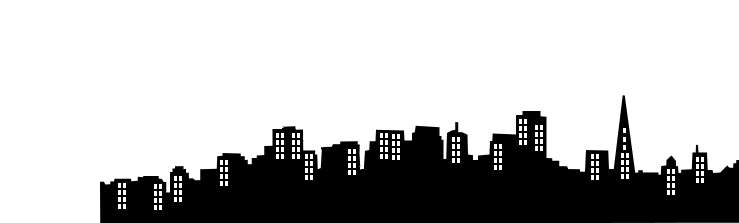
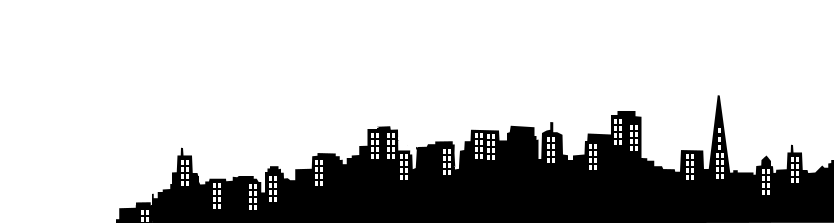
update skyling

Changed region(s): [[0.1245, 0.4305, 0.9959, 1.0], [0.9959, 0.6996, 1.0, 0.7265]]

diff --git a/app/assets/stylesheets/welcome.css.scss b/app/assets/stylesheets/welcome.css.scss
@@ -182,7 +182,7 @@ body {
 footer {
   width: 100%;
   position: fixed;
-  bottom: -40px;
+  bottom: -10px;
 
   #skyline_image {
     position: absolute;
